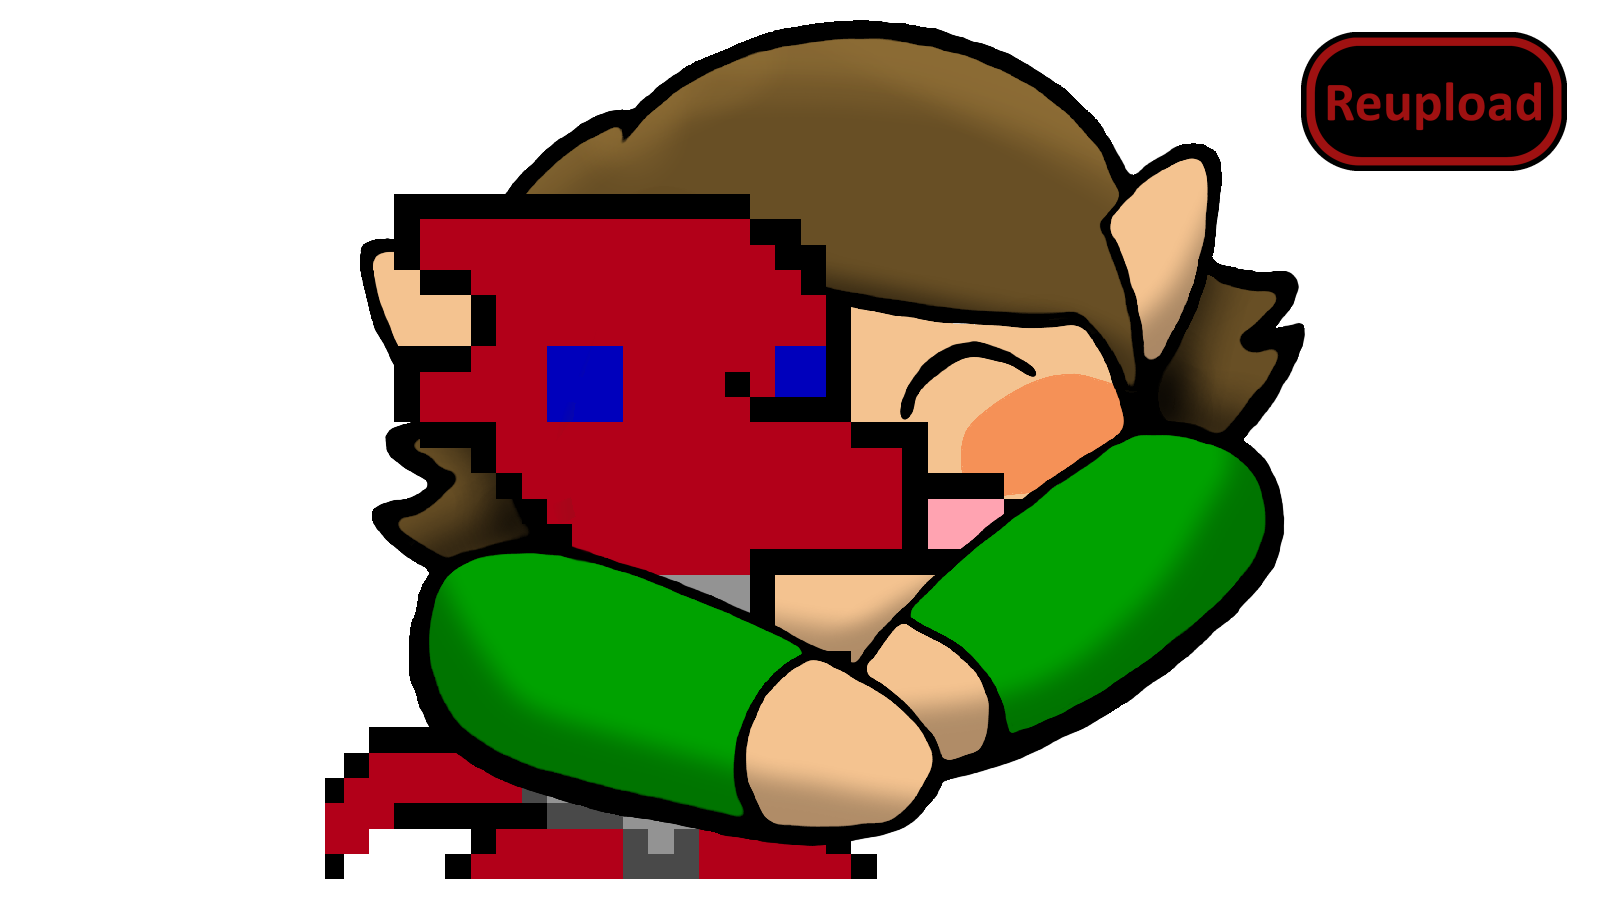
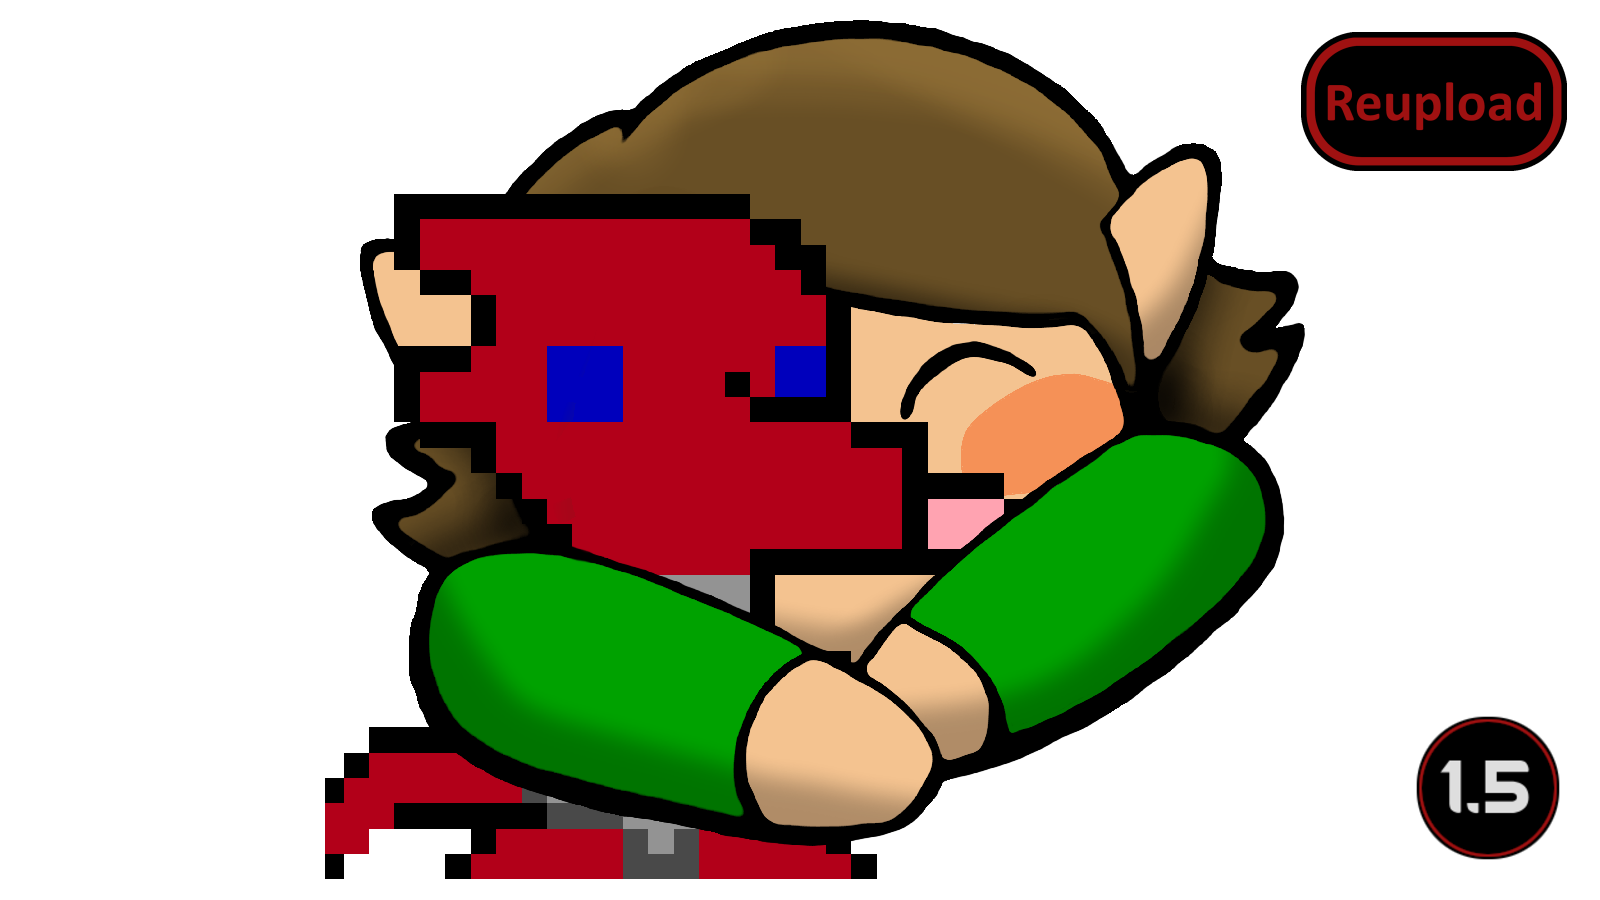
Mod updated for 1.5 and passed autotests

Changed region(s): [[0.875, 0.7778, 1.0, 0.9644]]

diff --git a/Source/WildKobold/ThinkNode_ConditionalKobold.cs b/Source/WildKobold/ThinkNode_ConditionalKobold.cs
@@ -10,8 +10,8 @@ internal class ThinkNode_ConditionalKobold : ThinkNode_Conditional
     protected override bool Satisfied(Pawn pawn)
     {
         // If we're dealing with a kobold.
-        if (pawn.def != null && pawn.def.defName == "Kobold" && !pawn.GetRegion().touchesMapEdge)
-            // Return true if the kobold is untrained or outside of the home area.
+        if (pawn.def is { defName: "Kobold" } && !pawn.GetRegion().touchesMapEdge)
+            // Return true if the kobold is untrained or outside the home area.
         {
             return pawn.training == null ||
                    !pawn.training.HasLearned(DefDatabase<TrainableDef>.GetNamed("Tameness")) ||

diff --git a/README.md b/README.md
@@ -22,11 +22,13 @@ Original kobold art belongs to twitch.tv/distractedelf
 
 -  See if the the error persists if you just have this mod and its requirements active.
 -  If not, try adding your other mods until it happens again.
--  Post your error-log using https://steamcommunity.com/workshop/filedetails/?id=818773962]HugsLib and command Ctrl+F12
+-  Post your error-log using https://steamcommunity.com/workshop/filedetails/?id=818773962]HugsLib or the standalone https://steamcommunity.com/sharedfiles/filedetails/?id=2873415404]Uploader and command Ctrl+F12
 -  For best support, please use the Discord-channel for error-reporting.
 -  Do not report errors by making a discussion-thread, I get no notification of that.
 -  If you have the solution for a problem, please post it to the GitHub repository.
+-  Use https://github.com/RimSort/RimSort/releases/latest]RimSort to sort your mods
 
 
 
+https://steamcommunity.com/sharedfiles/filedetails/changelog/2472421258]![Image](https://img.shields.io/github/v/release/emipa606/WildKobolds?label=latest%20version&style=plastic&color=9f1111&labelColor=black)
 
